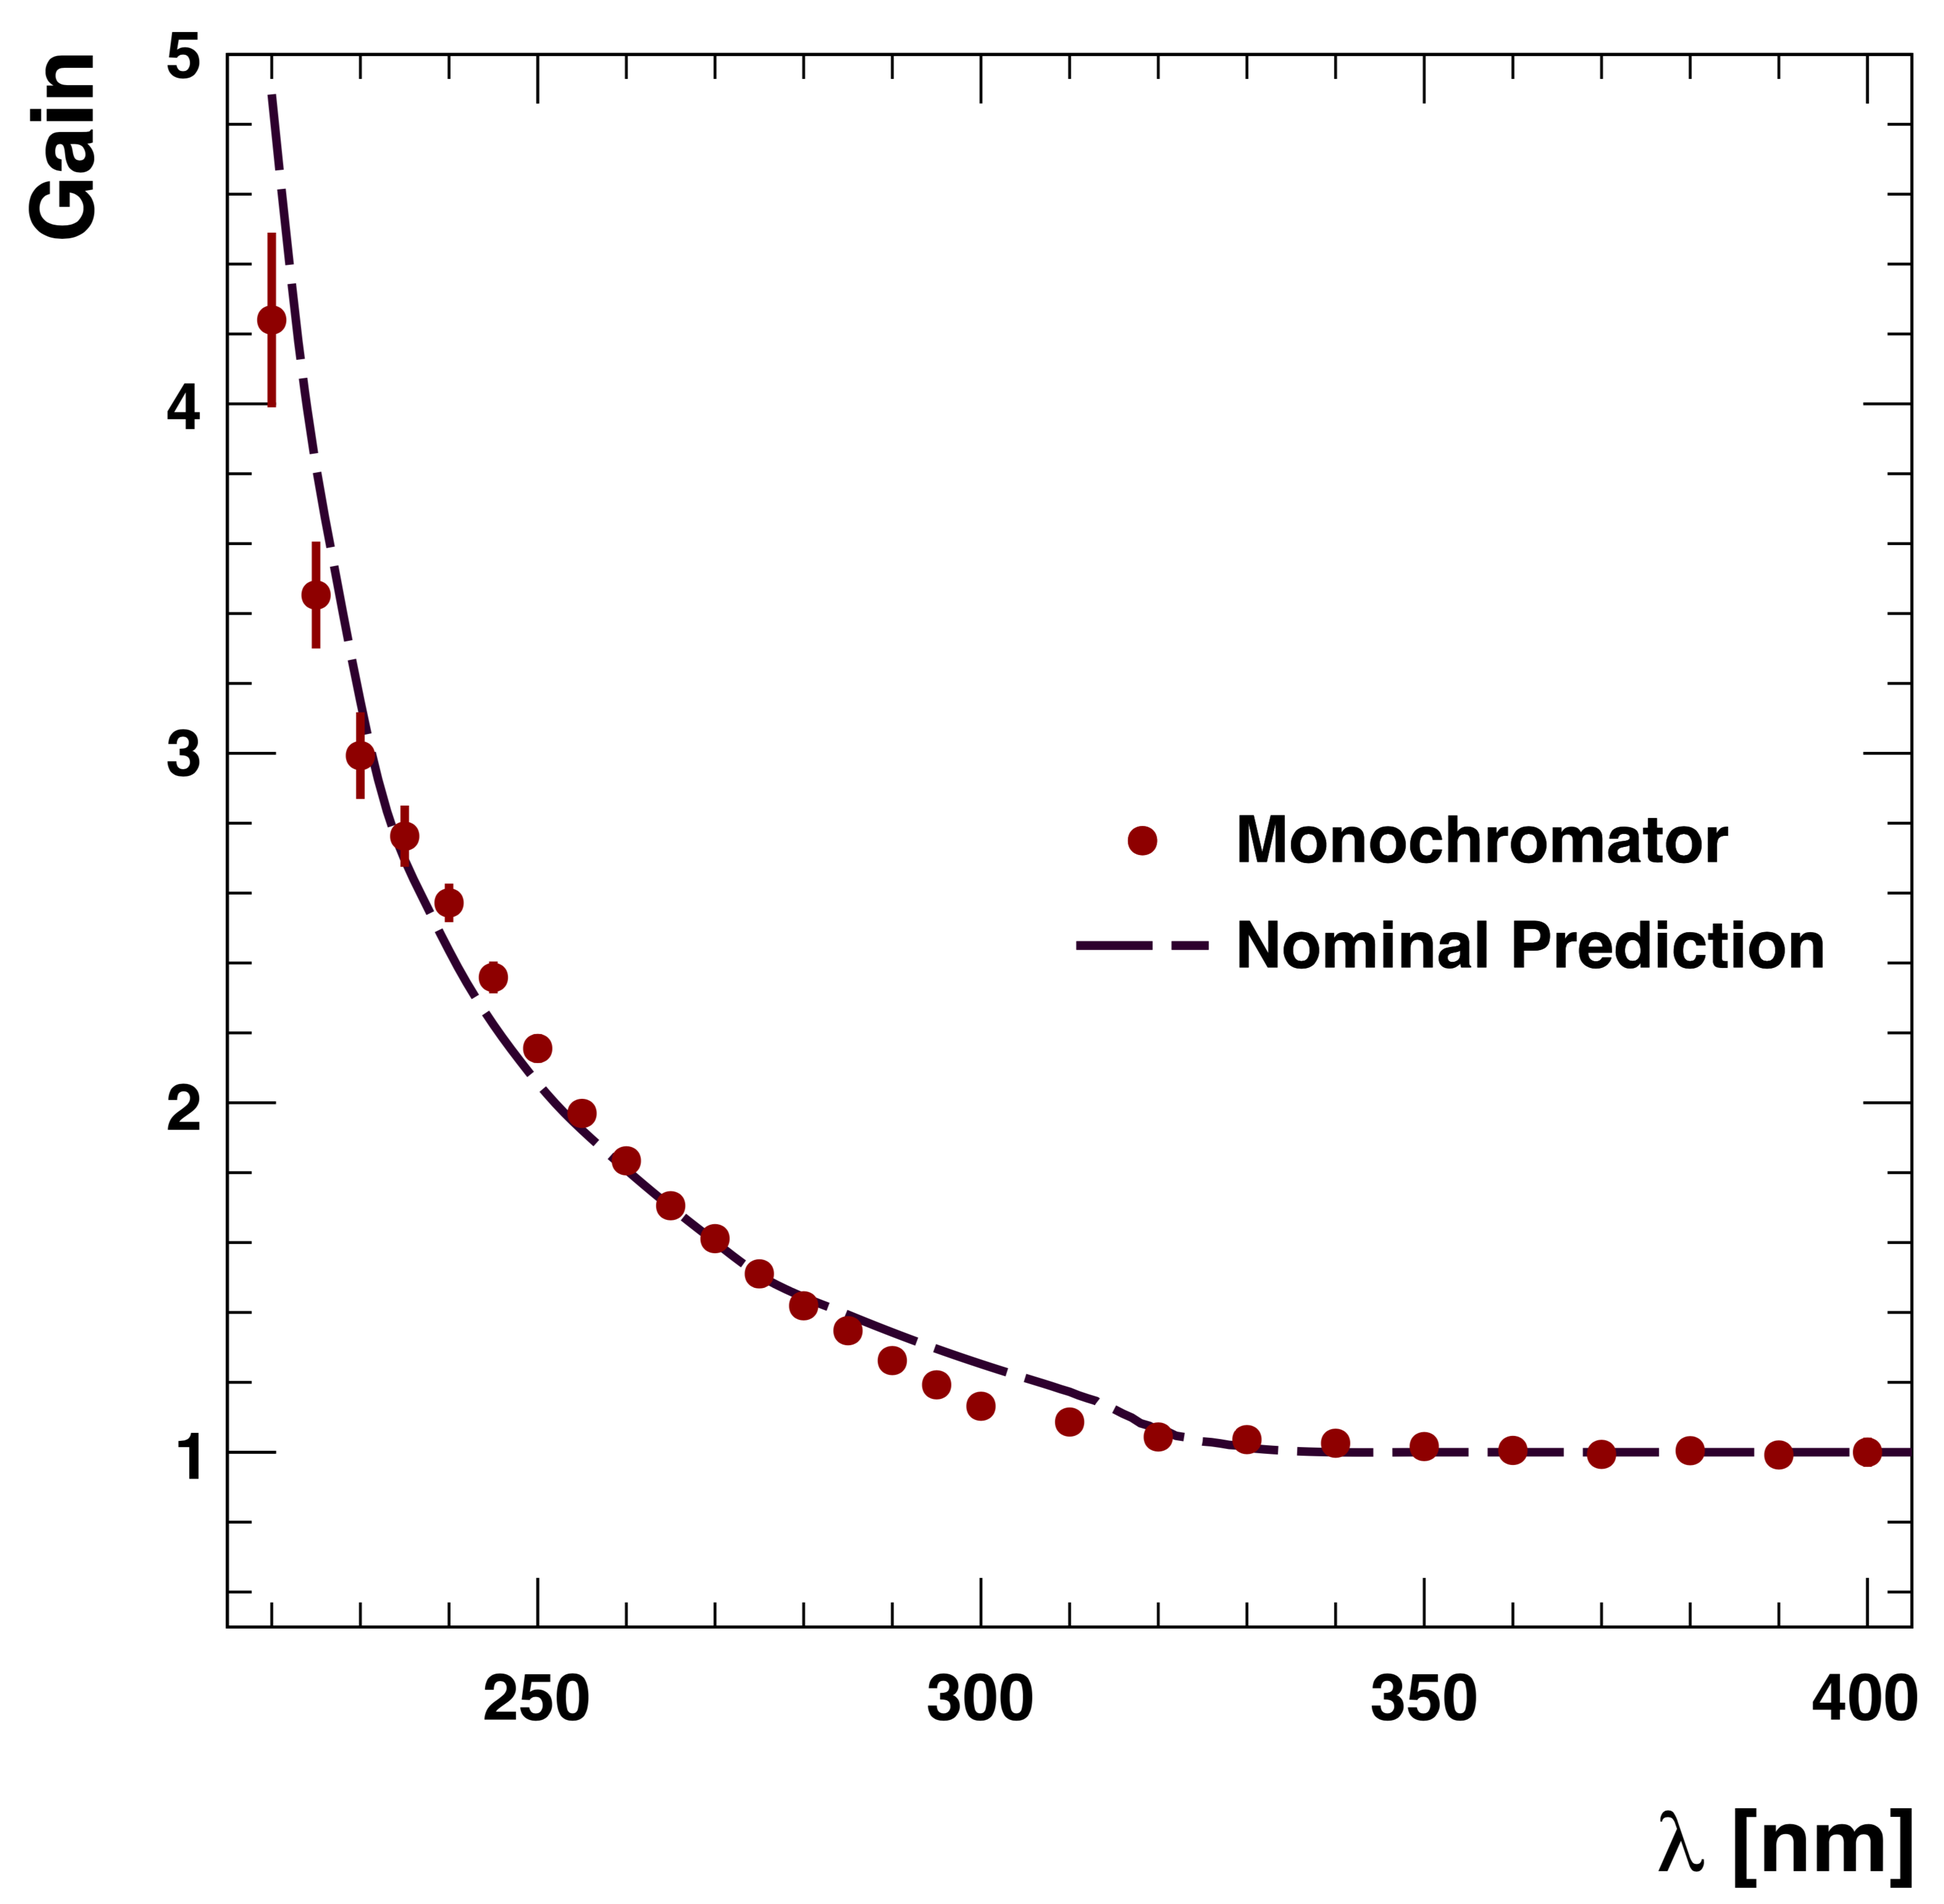
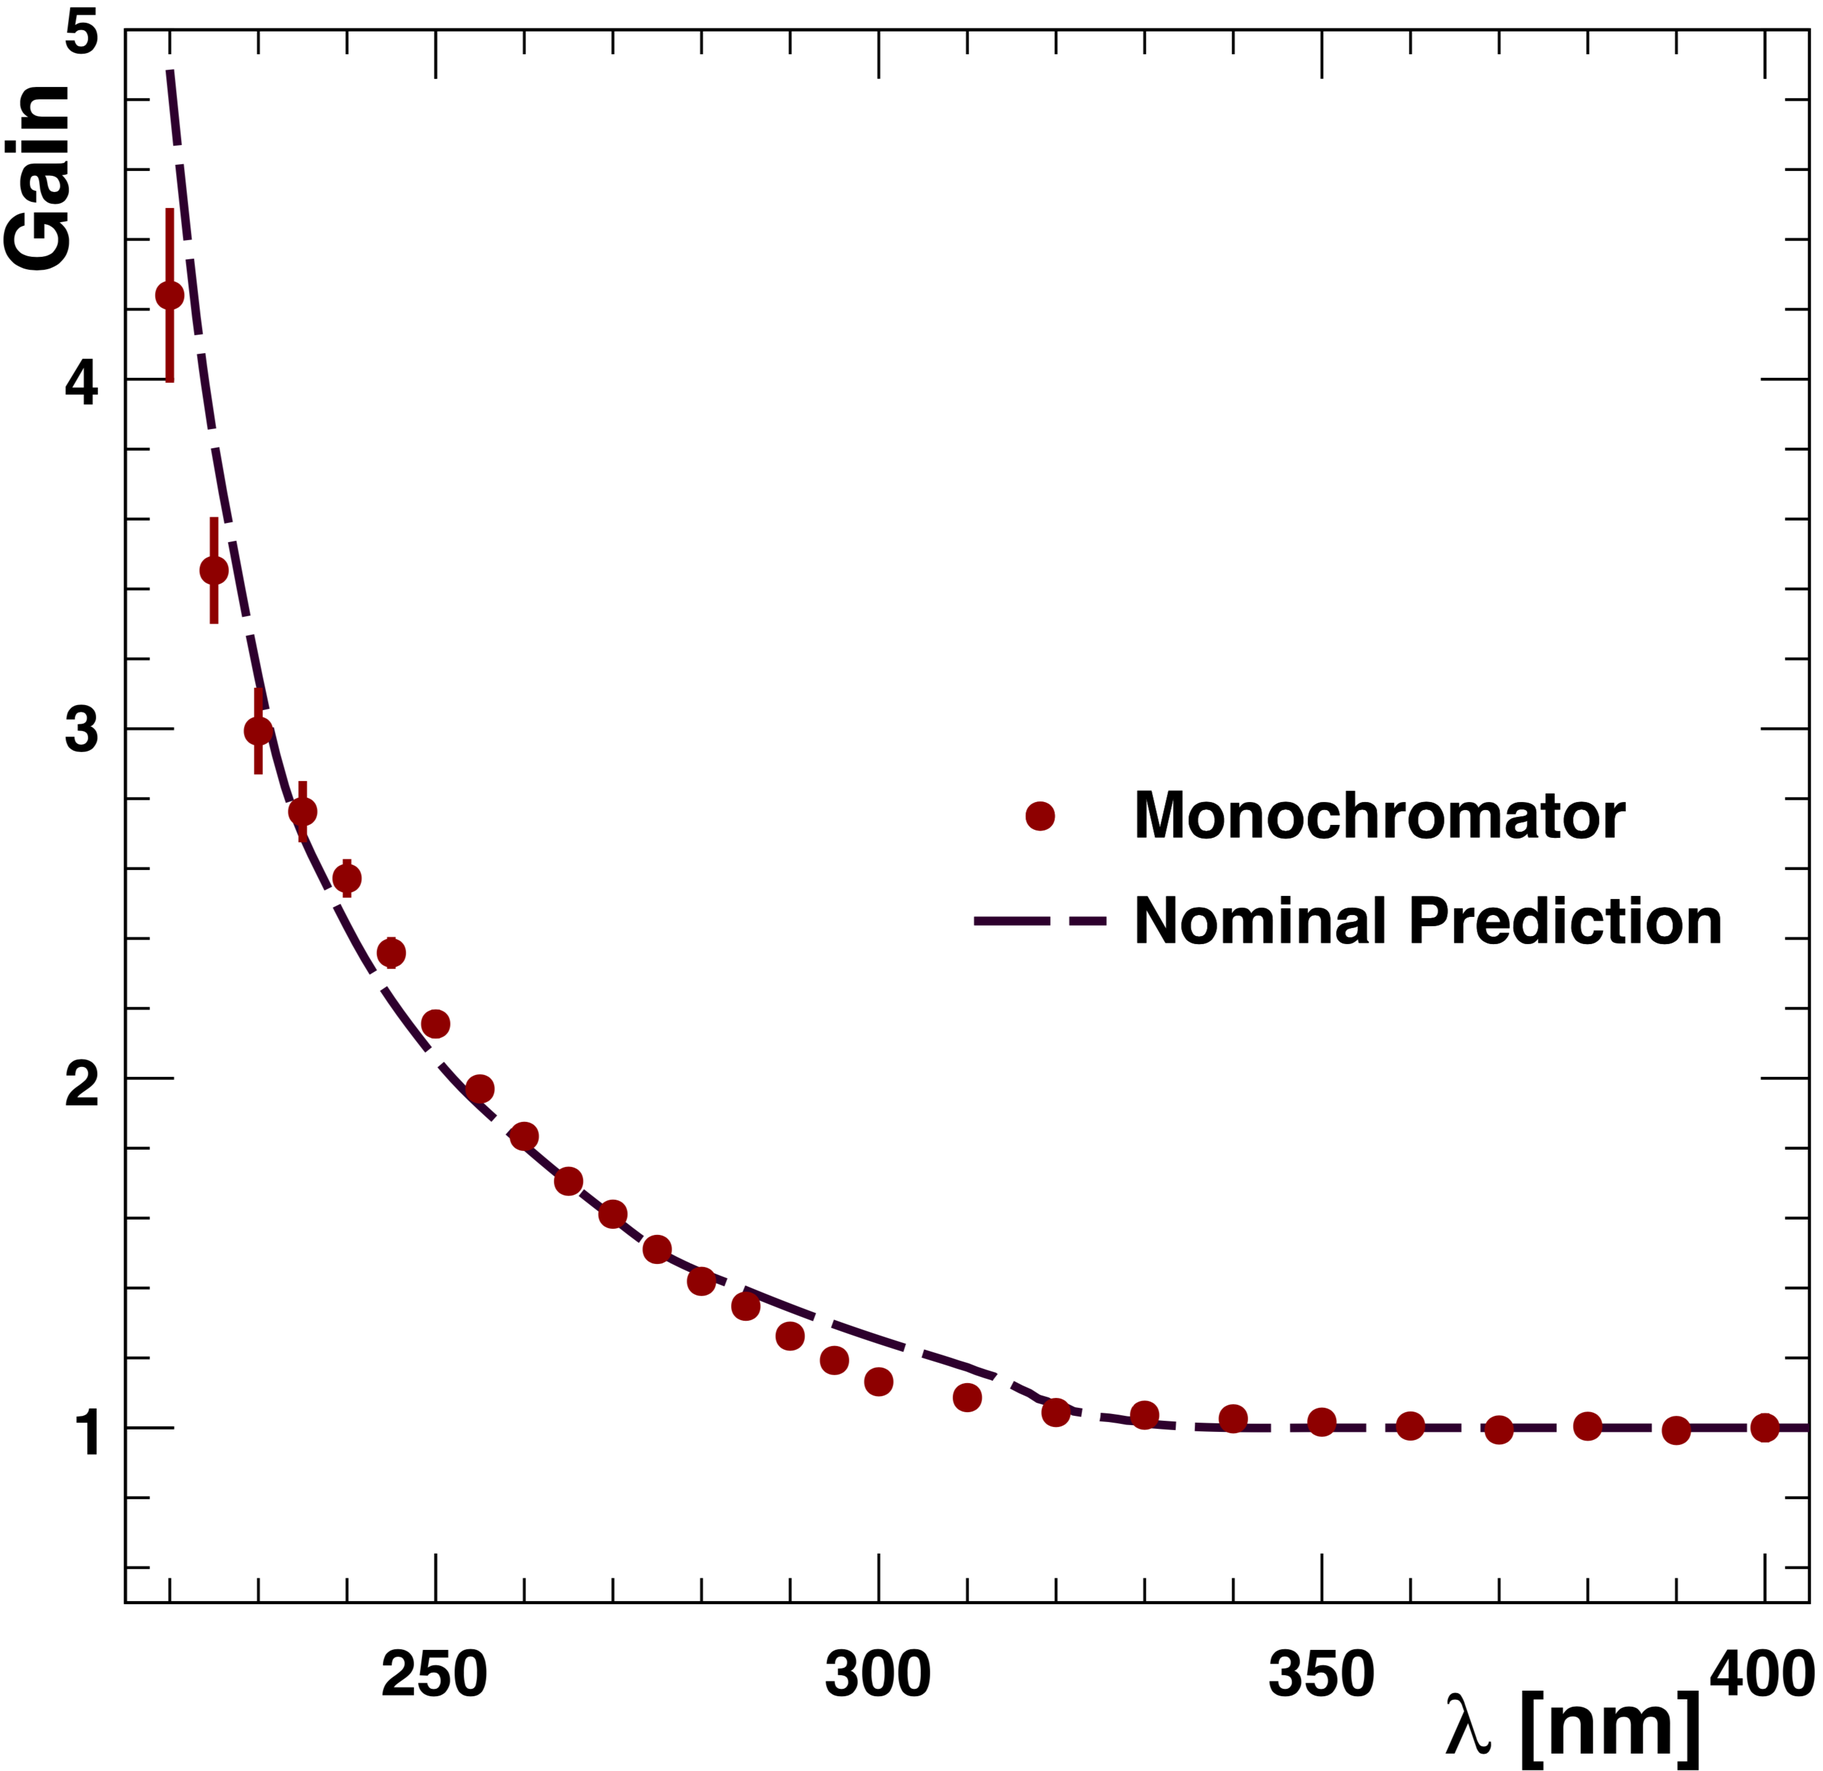
inches symbol and better monoch. results

diff --git a/ltcc/hardware.tex b/ltcc/hardware.tex
@@ -4,7 +4,7 @@
 The hardware components of the LTCC are summarized in Table \ref{tab:ltccProperties}, and the electronic properties
 are summarized in Table \ref{tab:ltccChannels}.
 
-\begin{table}
+\begin{table}[h]
 	\begin{center}
 		\begin{tabular}{| l | l |}
 			\hline \hline
@@ -12,15 +12,15 @@ are summarized in Table \ref{tab:ltccChannels}.
 			\hline
 			{\bf Mirrors}            &                               \\
 			Support Structure        & Kevlar / vinyl                \\
-			Elliptical Mirrors       & L: 6"-55", W: 8"-"11"         \\
-			Hyperbolic Mirrors       & L: 12"-30", W: 8"-9.25"       \\
-			Mirror Coating           & Al/MgF2                       \\
+			Elliptical Mirrors       & L: 6$\inches$-55$\inches$,  W: 8$\inches$-11$\inches$     \\
+			Hyperbolic Mirrors       & L: 12$\inches$-30$\inches$, W: 8$\inches$-9.25$\inches$   \\
+			Mirror Coating           & Al/MgF$_2$                    \\
 			Reflectivity             & 85\% from 250 to 650 nm       \\
 			{\bf Gas system}         &                               \\
 			Gas used                 &   $C_4F_{10}$                 \\
 			Refraction Index         & 1.00134                       \\
-			Transparency             & 100\% above 220nm             \\
-			Density                  & 9.94 kg/m3                    \\
+			Transparency             & 100\% above 220 nm            \\
+			Density                  & 9.94 kg/m$^3$                 \\
 			Window Material          & Tedlar/Mylar/Tedlar           \\
 			{\bf Magnetic Shields}   &                               \\
 			Eagle AAA Material       & 80\% Ni, 4\% Mo, 15\% Fe      \\
@@ -31,26 +31,26 @@ are summarized in Table \ref{tab:ltccChannels}.
 			\hline \hline
 		\end{tabular}
 	\end{center}
-\caption{Summary of LTCC Properties}\label{tab:ltccProperties}
+\caption{Summary of LTCC Components Properties.}\label{tab:ltccProperties}
 \end{table}
 
-\begin{table}
+\begin{table}[h]
 	\begin{center}
 		\begin{tabular}{| l | c |}
 			\hline \hline
 			Property                 & Value \\
 			\hline
 			PMTs             & 200 Photonis XP 4500B8    \\
-	                       & 16 Photonis XP 4508       \\
+	                         & 16 Photonis XP 4508       \\
 			Voltage Dividers & Photonis VD305K           \\
-			HV Power Supply  & CAEN SY4527               \\
-			Power boards     & 1501P                     \\
-			Flash ADC        & JLab FADC250-MHz          \\
-			TDC              & Caen 1190                 \\
-			Discriminators   & DSC2                      \\
+			HV Mainframe     & CAEN SY4527               \\
+			HV boards        & CAEN 1501P                     \\
+			Flash ADC        & JLab FADC250-MHz\cite{daq2019} \\
+			TDC              & CAEN 1190                 \\
+			Discriminators   & DSC2\cite{daq2019}        \\
 			\hline \hline
 		\end{tabular}
 	\end{center}
-	\caption{Summary of LTCC Electronics}\label{tab:ltccChannels}
+	\caption{Summary of LTCC Electronics.}\label{tab:ltccChannels}
 \end{table}
 

diff --git a/ltcc/readoutelectronics.tex b/ltcc/readoutelectronics.tex
@@ -5,15 +5,15 @@
 The XP4500B Photonis PMTs are powered with positive polarity by a CAEN SY4527 high voltage mainframe outfitted with 1501P boards.
 
 There are two anode signals from the PMT output. One of them is connected directly to flash ADC
-boards built at Jefferson Lab, the Flash ADC module FADC250. The FADC250 sampling frequency is 250 $MHz$.
-The other signal is discriminated by the Jefferson Lab built discriminator scaler module DSC2 \cite{daq2019}, and connected to CAEN v1190 TDC modules.
+boards built at Jefferson Lab, the Flash ADC module FADC250\cite{daq2019}. The FADC250 sampling frequency is 250 $MHz$.
+The other signal is discriminated by the Jefferson Lab built discriminator scaler module DSC2\cite{daq2019}, and connected to CAEN v1190 TDC modules.
 The TDCs were set to have 50 ps/channel timing resolution, and the threshold was set to 30 mV, corresponding to 15\% of the SPE amplituted.
 
 The LTCC FADC250 and TDC information are read out using the CLAS12 Data Acquisition system \cite{daq2019}.
 
 \begin{figure}
 	\centering
-	\includegraphics[width=0.95\columnwidth,keepaspectratio]{img/electronicScheme.png}
+	\includegraphics[width=0.99\columnwidth,keepaspectratio]{img/electronicScheme.png}
 	\caption{The electronics schematic of the LTCC. One HV and two readout signals are connected from each PMT base to the patch panel.
 		     The patch panels then connect the HV to the CAEN SY4527 (1501P boards), one readout to the FADC250
              and the other to DSC2 discriminators.}
@@ -33,7 +33,7 @@ minus the electronic pedestal, as described in \F{fadc}.
 
 \begin{figure}
 	\centering
-	\includegraphics[width=0.95\columnwidth,keepaspectratio]{img/fadc.png}
+	\includegraphics[width=0.99\columnwidth,keepaspectratio]{img/fadc.png}
 	\caption{The FADC250 digitized output as a function of sample index of one of the LTCC PMTs.
              The DAQ system saves a 400 ns time window (100 samples) if at least one of the 100 signals is above a 30-channel threshold.
 		     The integral signal is the sum of the output at the sample indexes between the two right arrows,

diff --git a/ltcc/wc.tex b/ltcc/wc.tex
@@ -71,7 +71,7 @@ The results of the WC refurbishment are summarized in \F{wcStatusAfter} (bottom)
 	\caption{Top: typical reflectivity of a ``very poor'' WC, after refurbishment.
             The reflectivity quickly rise to to $65\%$ at a wavelength of about 340 nm. Bottom: average WC reflectivity $r$ between 200 and 400 nm for
 			all the WC. The shaded grey boxes represents WCs with poor reflectivity ($r < 50\%$).
-            This picture should be compared to \F{wcStatusBefore}. Most recoated WC show improved reflectivity.}
+            This picture should be compared to \F{wcStatusBefore}. Most recoated WCs show improved reflectivity.}
 	\label{fig:wcStatusAfter}
 \end{figure}
 

diff --git a/ltcc/overview.tex b/ltcc/overview.tex
@@ -12,7 +12,7 @@ The system consists of six identical detectors, each containing:
 \begin{itemize}
 	\item 108 light-weight adjustable mirrors
 	\item 36 Winston light collecting cones
-	\item 36 5" Photonis X4500B PMTs
+	\item 36 5$\inches$ Photonis X4500B PMTs
 	\item 36 magnetic shields
 	\item $C_4F_{10}$ gas, index of refraction: 1.00134
 \end{itemize}

diff --git a/ltcc/ltcc.tex b/ltcc/ltcc.tex
@@ -14,6 +14,7 @@
 \journal{Nuclear Instruments and Methods A}
 
 \newcommand{\F}[1]{Fig.~\ref{fig:#1}}
+\newcommand{\inches}{^{\prime\prime}}
 
 \begin{document}
 
